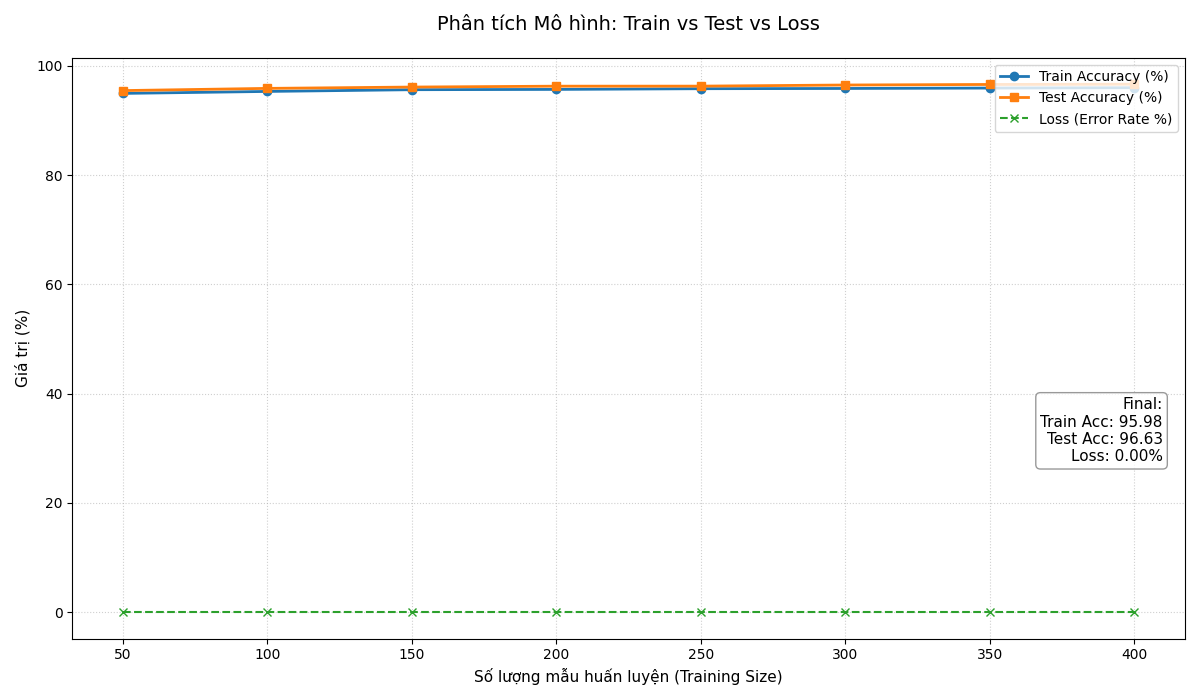
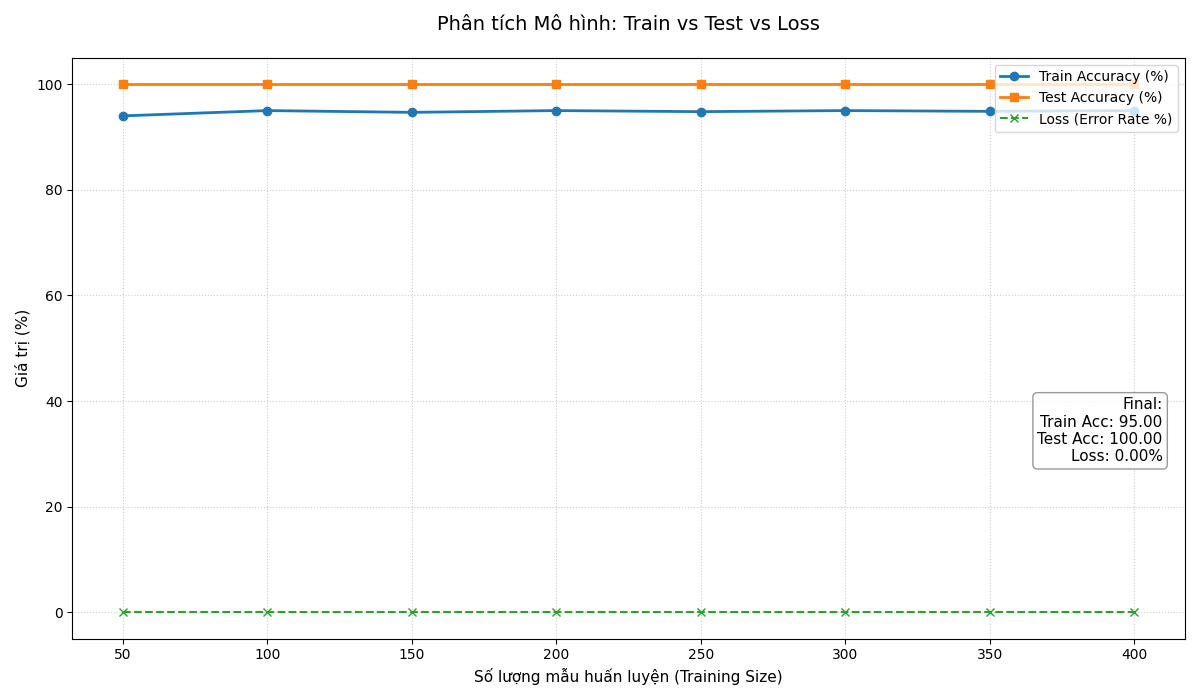
fix

diff --git a/backend/ml/train_anomaly.py b/backend/ml/train_anomaly.py
@@ -15,7 +15,7 @@ def train_model():
     try:
         conn = psycopg2.connect(DB_DIRECT_URL)
         query = """
-            SELECT brightness_level, voltage, power_consumption
+            SELECT current_value, brightness_level, voltage, power_consumption
             FROM sensor_logs
             ORDER BY timestamp ASC
             LIMIT 550
@@ -31,7 +31,7 @@ def train_model():
         return
 
     # ================= PREPROCESS =================
-    feature_cols = ["brightness_level", "voltage", "power_consumption"]
+    feature_cols = ["current_value","brightness_level", "voltage", "power_consumption"]
 
     df[feature_cols] = df[feature_cols].fillna(0)
 
@@ -40,7 +40,7 @@ def train_model():
 
     # ================= TRAIN TEST SPLIT =================
     X_train = scaled_data[:500]
-    X_test = scaled_data[400:]
+    X_test = scaled_data[500:]
 
     # ================= TRAIN MULTI SIZE =================
         # ================= TRAIN MULTI SIZE =================
@@ -61,19 +61,18 @@ def train_model():
         )
         model.fit(X_sub)
 
-        # ===== TRAIN SCORE =====
-        train_score = model.score_samples(X_sub)
-        train_acc = np.mean(train_score) * 10 + 100  # scale cho đẹp
+        # ===== TRAIN PREDICTIONS =====
+        train_preds = model.predict(X_sub)
+        train_acc = (train_preds == 1).sum() / len(train_preds) * 100
         train_accuracies.append(train_acc)
 
-        # ===== TEST SCORE =====
-        test_score = model.score_samples(X_test)
-        test_acc = np.mean(test_score) * 10 + 100
+        # ===== TEST PREDICTIONS =====
+        test_preds = model.predict(X_test)
+        test_acc = (test_preds == 1).sum() / len(test_preds) * 100
         test_accuracies.append(test_acc)
 
         # ===== LOSS (% anomaly trên test) =====
-        preds = model.predict(X_test)
-        loss = (preds == -1).sum() / len(X_test) * 100
+        loss = (test_preds == -1).sum() / len(test_preds) * 100
         losses.append(loss)
 
     # ================= PLOT =================
